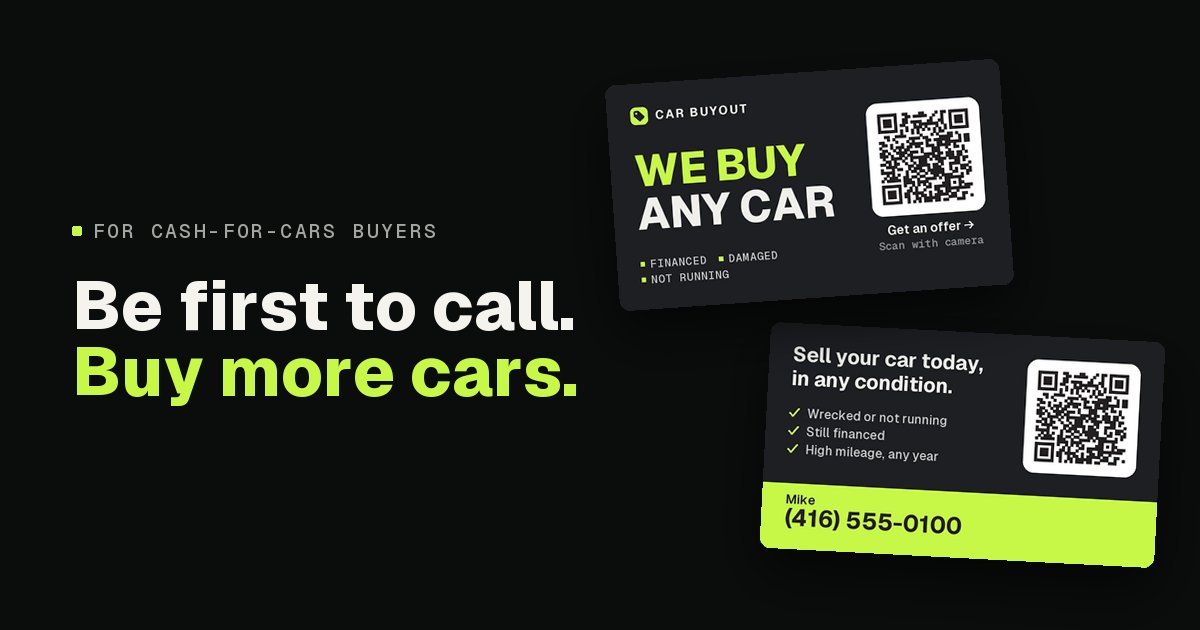
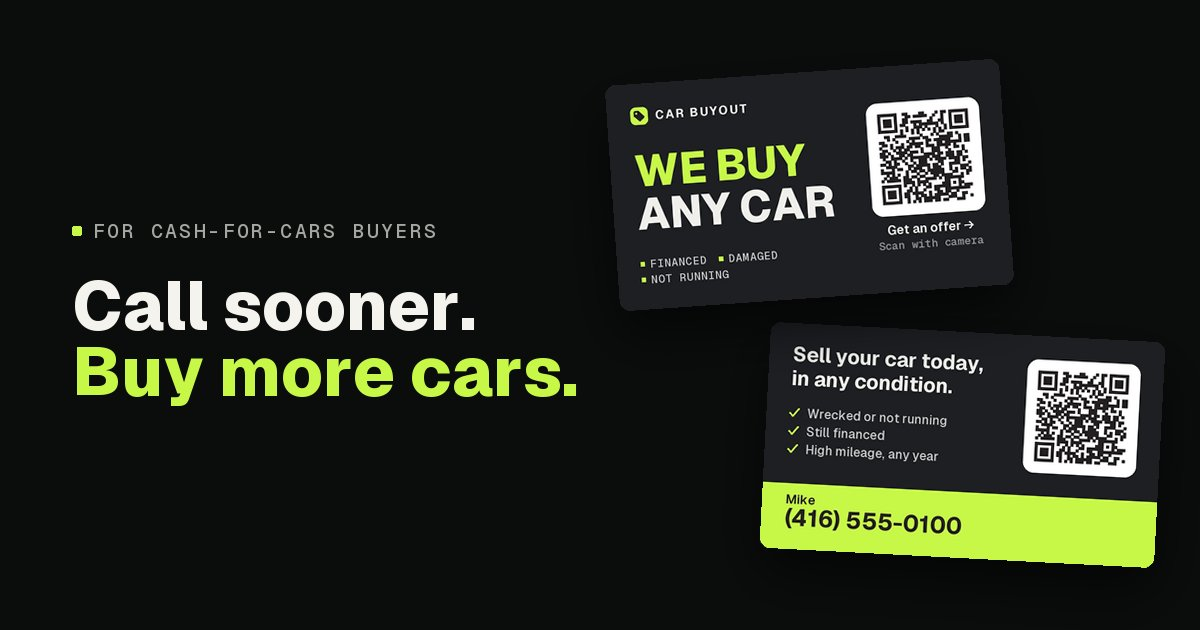
Update the demo

Changed region(s): [[0.0617, 0.4222, 0.4933, 0.5429]]

diff --git a/ru/index.html b/ru/index.html
@@ -5,14 +5,14 @@
   <meta name="viewport" content="width=device-width, initial-scale=1, viewport-fit=cover">
   <!-- Shared by link with one business at a time, never meant to be found. -->
   <meta name="robots" content="noindex">
-  <title>Выкуп авто · Звоните первым</title>
+  <title>Выкуп авто · Звоните быстрее</title>
   <meta name="description" content="Посмотрите, как это работает: продавец сканирует код или открывает ссылку и заполняет анкету, а вам приходит заявка с уведомлением на телефон.">
   <!-- The preview a messenger shows under a link. It reads the page as it is
        served, so a named link shows the headline, not the business's name. -->
   <meta property="og:type" content="website">
-  <meta property="og:title" content="Звоните первым. Выкупайте больше машин.">
+  <meta property="og:title" content="Звоните быстрее. Выкупайте больше машин.">
   <meta property="og:description" content="Посмотрите, как это работает: продавец сканирует код или открывает ссылку и заполняет анкету, а вам приходит заявка с уведомлением на телефон.">
-  <meta property="og:image" content="https://car-buyer-demo.github.io/assets/preview/ru.jpg?v=93c2c97ae4">
+  <meta property="og:image" content="https://car-buyer-demo.github.io/assets/preview/ru.jpg?v=3e0f3e5339">
   <meta property="og:image:width" content="1200">
   <meta property="og:image:height" content="630">
   <meta name="twitter:card" content="summary_large_image">
@@ -132,7 +132,7 @@
     <div class="hero">
       <div>
         <div class="kicker">Для автовыкупа</div>
-        <h1>Звоните первым. <em>Выкупайте больше машин.</em></h1>
+        <h1>Звоните быстрее. <em>Выкупайте больше машин.</em></h1>
         <p class="lead">Разместите QR-код на визитках, наклейках, щитах и у партнёров или добавьте ссылку в свою карточку на Яндекс Картах. Как только продавец оставит контакты, вам придёт уведомление, и вы позвоните, пока он ещё ищет покупателя.</p>
         <a class="button" href="#try">Попробовать ↓</a>
       </div>

diff --git a/ca-fr/index.html b/ca-fr/index.html
@@ -5,14 +5,14 @@
   <meta name="viewport" content="width=device-width, initial-scale=1, viewport-fit=cover">
   <!-- Shared by link with one business at a time, never meant to be found. -->
   <meta name="robots" content="noindex">
-  <title>Achat Auto Comptant · Appelez le premier</title>
+  <title>Achat Auto Comptant · Appelez plus vite</title>
   <meta name="description" content="Une démo qui fonctionne : le formulaire que remplit un vendeur après avoir scanné votre code ou touché votre lien, et l'app où la demande arrive par notification.">
   <!-- The preview a messenger shows under a link. It reads the page as it is
        served, so a named link shows the headline, not the business's name. -->
   <meta property="og:type" content="website">
-  <meta property="og:title" content="Appelez le premier. Achetez plus d'autos.">
+  <meta property="og:title" content="Appelez plus vite. Achetez plus d'autos.">
   <meta property="og:description" content="Une démo qui fonctionne : le formulaire que remplit un vendeur après avoir scanné votre code ou touché votre lien, et l'app où la demande arrive par notification.">
-  <meta property="og:image" content="https://car-buyer-demo.github.io/assets/preview/ca-fr.jpg?v=66493ed496">
+  <meta property="og:image" content="https://car-buyer-demo.github.io/assets/preview/ca-fr.jpg?v=13fef56f2d">
   <meta property="og:image:width" content="1200">
   <meta property="og:image:height" content="630">
   <meta name="twitter:card" content="summary_large_image">
@@ -132,7 +132,7 @@
     <div class="hero">
       <div>
         <div class="kicker">Pour les acheteurs de véhicules d'occasion</div>
-        <h1>Appelez le premier. <em>Achetez plus d'autos.</em></h1>
+        <h1>Appelez plus vite. <em>Achetez plus d'autos.</em></h1>
         <p class="lead">Mettez votre QR code sur des cartes, des autocollants, des affiches et chez des garages partenaires, ou ajoutez votre lien à votre fiche Google Maps. Dès qu'un vendeur laisse ses coordonnées, une notification arrive sur votre téléphone, et vous l'appelez pendant qu'il cherche encore un acheteur.</p>
         <a class="button" href="#try">Essayez vous-même ↓</a>
       </div>

diff --git a/de/index.html b/de/index.html
@@ -5,14 +5,14 @@
   <meta name="viewport" content="width=device-width, initial-scale=1, viewport-fit=cover">
   <!-- Shared by link with one business at a time, never meant to be found. -->
   <meta name="robots" content="noindex">
-  <title>Autoankauf Sofort · Zuerst anrufen</title>
+  <title>Autoankauf Sofort · Schneller anrufen</title>
   <meta name="description" content="Eine funktionierende Demo: das Formular, das ein Verkäufer nach dem Scannen Ihres Codes oder einem Tipp auf Ihren Link ausfüllt, und die App, in der die Anfrage per Push ankommt.">
   <!-- The preview a messenger shows under a link. It reads the page as it is
        served, so a named link shows the headline, not the business's name. -->
   <meta property="og:type" content="website">
-  <meta property="og:title" content="Rufen Sie zuerst an. Kaufen Sie mehr Autos.">
+  <meta property="og:title" content="Rufen Sie schneller an. Kaufen Sie mehr Autos.">
   <meta property="og:description" content="Eine funktionierende Demo: das Formular, das ein Verkäufer nach dem Scannen Ihres Codes oder einem Tipp auf Ihren Link ausfüllt, und die App, in der die Anfrage per Push ankommt.">
-  <meta property="og:image" content="https://car-buyer-demo.github.io/assets/preview/de.jpg?v=763ba8c24d">
+  <meta property="og:image" content="https://car-buyer-demo.github.io/assets/preview/de.jpg?v=443164e9ca">
   <meta property="og:image:width" content="1200">
   <meta property="og:image:height" content="630">
   <meta name="twitter:card" content="summary_large_image">
@@ -132,7 +132,7 @@
     <div class="hero">
       <div>
         <div class="kicker">Für Autoankäufer</div>
-        <h1>Rufen Sie zuerst an. <em>Kaufen Sie mehr Autos.</em></h1>
+        <h1>Rufen Sie schneller an. <em>Kaufen Sie mehr Autos.</em></h1>
         <p class="lead">Bringen Sie Ihren QR-Code auf Karten, Aufkleber, Schilder und zu Partnerwerkstätten, oder setzen Sie Ihren Link in Ihren Google-Maps-Eintrag. Sobald ein Verkäufer seine Kontaktdaten hinterlässt, kommt eine Push-Meldung auf Ihr Handy, und Sie rufen an, während er noch einen Käufer sucht.</p>
         <a class="button" href="#try">Selbst ausprobieren ↓</a>
       </div>

diff --git a/fr/index.html b/fr/index.html
@@ -5,14 +5,14 @@
   <meta name="viewport" content="width=device-width, initial-scale=1, viewport-fit=cover">
   <!-- Shared by link with one business at a time, never meant to be found. -->
   <meta name="robots" content="noindex">
-  <title>Cash Auto · Appelez le premier</title>
+  <title>Cash Auto · Appelez plus vite</title>
   <meta name="description" content="Une démo qui fonctionne : le formulaire que remplit un vendeur après avoir scanné votre code ou touché votre lien, et l'app où la demande arrive par notification.">
   <!-- The preview a messenger shows under a link. It reads the page as it is
        served, so a named link shows the headline, not the business's name. -->
   <meta property="og:type" content="website">
-  <meta property="og:title" content="Appelez le premier. Achetez plus de voitures.">
+  <meta property="og:title" content="Appelez plus vite. Achetez plus de voitures.">
   <meta property="og:description" content="Une démo qui fonctionne : le formulaire que remplit un vendeur après avoir scanné votre code ou touché votre lien, et l'app où la demande arrive par notification.">
-  <meta property="og:image" content="https://car-buyer-demo.github.io/assets/preview/fr.jpg?v=cbf4af8fb3">
+  <meta property="og:image" content="https://car-buyer-demo.github.io/assets/preview/fr.jpg?v=dca94bf3b7">
   <meta property="og:image:width" content="1200">
   <meta property="og:image:height" content="630">
   <meta name="twitter:card" content="summary_large_image">
@@ -132,7 +132,7 @@
     <div class="hero">
       <div>
         <div class="kicker">Pour les acheteurs de voitures d'occasion</div>
-        <h1>Appelez le premier. <em>Achetez plus de voitures.</em></h1>
+        <h1>Appelez plus vite. <em>Achetez plus de voitures.</em></h1>
         <p class="lead">Mettez votre QR code sur des cartes, des autocollants, des panneaux et chez des garages partenaires, ou ajoutez votre lien à votre fiche Google Maps. Dès qu'un vendeur laisse ses coordonnées, une notification arrive sur votre téléphone, et vous l'appelez pendant qu'il cherche encore un acheteur.</p>
         <a class="button" href="#try">Essayez vous-même ↓</a>
       </div>

diff --git a/pl/index.html b/pl/index.html
@@ -5,14 +5,14 @@
   <meta name="viewport" content="width=device-width, initial-scale=1, viewport-fit=cover">
   <!-- Shared by link with one business at a time, never meant to be found. -->
   <meta name="robots" content="noindex">
-  <title>Skup Aut Ekspres · Dzwoń pierwszy</title>
+  <title>Skup Aut Ekspres · Dzwoń szybciej</title>
   <meta name="description" content="Działające demo: formularz, który sprzedający wypełnia po zeskanowaniu Twojego kodu lub kliknięciu Twojego linku, i aplikacja, w której zgłoszenie przychodzi jako powiadomienie.">
   <!-- The preview a messenger shows under a link. It reads the page as it is
        served, so a named link shows the headline, not the business's name. -->
   <meta property="og:type" content="website">
-  <meta property="og:title" content="Dzwoń pierwszy. Skupuj więcej aut.">
+  <meta property="og:title" content="Dzwoń szybciej. Skupuj więcej aut.">
   <meta property="og:description" content="Działające demo: formularz, który sprzedający wypełnia po zeskanowaniu Twojego kodu lub kliknięciu Twojego linku, i aplikacja, w której zgłoszenie przychodzi jako powiadomienie.">
-  <meta property="og:image" content="https://car-buyer-demo.github.io/assets/preview/pl.jpg?v=08e51161b7">
+  <meta property="og:image" content="https://car-buyer-demo.github.io/assets/preview/pl.jpg?v=e2219d4366">
   <meta property="og:image:width" content="1200">
   <meta property="og:image:height" content="630">
   <meta name="twitter:card" content="summary_large_image">
@@ -132,7 +132,7 @@
     <div class="hero">
       <div>
         <div class="kicker">Dla skupów samochodów</div>
-        <h1>Dzwoń pierwszy. <em>Skupuj więcej aut.</em></h1>
+        <h1>Dzwoń szybciej. <em>Skupuj więcej aut.</em></h1>
         <p class="lead">Umieść swój kod QR na wizytówkach, naklejkach, tablicach i u warsztatów partnerskich albo dodaj link do profilu firmy w Mapach Google. Gdy tylko sprzedający zostawi kontakt, dostajesz powiadomienie na telefon i dzwonisz, póki on wciąż szuka kupca.</p>
         <a class="button" href="#try">Wypróbuj sam ↓</a>
       </div>

diff --git a/us-es/index.html b/us-es/index.html
@@ -5,14 +5,14 @@
   <meta name="viewport" content="width=device-width, initial-scale=1, viewport-fit=cover">
   <!-- Shared by link with one business at a time, never meant to be found. -->
   <meta name="robots" content="noindex">
-  <title>Autos al Contado · Llame primero</title>
+  <title>Autos al Contado · Llame antes</title>
   <meta name="description" content="Una demo que funciona: el formulario que llena un vendedor al escanear su código o tocar su enlace, y la app donde llega el prospecto con una notificación.">
   <!-- The preview a messenger shows under a link. It reads the page as it is
        served, so a named link shows the headline, not the business's name. -->
   <meta property="og:type" content="website">
-  <meta property="og:title" content="Llame primero. Compre más autos.">
+  <meta property="og:title" content="Llame antes. Compre más autos.">
   <meta property="og:description" content="Una demo que funciona: el formulario que llena un vendedor al escanear su código o tocar su enlace, y la app donde llega el prospecto con una notificación.">
-  <meta property="og:image" content="https://car-buyer-demo.github.io/assets/preview/us-es.jpg?v=51e01cba76">
+  <meta property="og:image" content="https://car-buyer-demo.github.io/assets/preview/us-es.jpg?v=d303b06743">
   <meta property="og:image:width" content="1200">
   <meta property="og:image:height" content="630">
   <meta name="twitter:card" content="summary_large_image">
@@ -132,7 +132,7 @@
     <div class="hero">
       <div>
         <div class="kicker">Para compradores de autos usados</div>
-        <h1>Llame primero. <em>Compre más autos.</em></h1>
+        <h1>Llame antes. <em>Compre más autos.</em></h1>
         <p class="lead">Ponga su código QR en tarjetas, calcomanías, letreros y en talleres aliados, o agregue su enlace a su perfil de Google Maps. En cuanto un vendedor deja sus datos, le llega una notificación al teléfono y usted llama mientras él todavía busca comprador.</p>
         <a class="button" href="#try">Pruébelo usted mismo ↓</a>
       </div>

diff --git a/es/index.html b/es/index.html
@@ -5,14 +5,14 @@
   <meta name="viewport" content="width=device-width, initial-scale=1, viewport-fit=cover">
   <!-- Shared by link with one business at a time, never meant to be found. -->
   <meta name="robots" content="noindex">
-  <title>Coches al Contado · Llama el primero</title>
+  <title>Coches al Contado · Llama antes</title>
   <meta name="description" content="Una demo que funciona: el formulario que rellena un vendedor al escanear tu código o tocar tu enlace, y la app donde llega la solicitud con una notificación.">
   <!-- The preview a messenger shows under a link. It reads the page as it is
        served, so a named link shows the headline, not the business's name. -->
   <meta property="og:type" content="website">
-  <meta property="og:title" content="Llama el primero. Compra más coches.">
+  <meta property="og:title" content="Llama antes. Compra más coches.">
   <meta property="og:description" content="Una demo que funciona: el formulario que rellena un vendedor al escanear tu código o tocar tu enlace, y la app donde llega la solicitud con una notificación.">
-  <meta property="og:image" content="https://car-buyer-demo.github.io/assets/preview/es.jpg?v=b8c4c929c6">
+  <meta property="og:image" content="https://car-buyer-demo.github.io/assets/preview/es.jpg?v=3349cb5d0d">
   <meta property="og:image:width" content="1200">
   <meta property="og:image:height" content="630">
   <meta name="twitter:card" content="summary_large_image">
@@ -132,7 +132,7 @@
     <div class="hero">
       <div>
         <div class="kicker">Para compradores de coches usados</div>
-        <h1>Llama el primero. <em>Compra más coches.</em></h1>
+        <h1>Llama antes. <em>Compra más coches.</em></h1>
         <p class="lead">Pon tu código QR en tarjetas, pegatinas, carteles y en talleres colaboradores, o añade tu enlace a tu ficha de Google Maps. En cuanto un vendedor deja sus datos, te llega una notificación al móvil y llamas mientras aún busca comprador.</p>
         <a class="button" href="#try">Pruébalo tú mismo ↓</a>
       </div>

diff --git a/br/index.html b/br/index.html
@@ -5,14 +5,14 @@
   <meta name="viewport" content="width=device-width, initial-scale=1, viewport-fit=cover">
   <!-- Shared by link with one business at a time, never meant to be found. -->
   <meta name="robots" content="noindex">
-  <title>Venda Já · Ligue primeiro</title>
+  <title>Venda Já · Ligue antes</title>
   <meta name="description" content="Uma demo que funciona: o formulário que o vendedor preenche depois de escanear seu código ou tocar no seu link, e o app onde o pedido chega com uma notificação.">
   <!-- The preview a messenger shows under a link. It reads the page as it is
        served, so a named link shows the headline, not the business's name. -->
   <meta property="og:type" content="website">
-  <meta property="og:title" content="Ligue primeiro. Compre mais carros.">
+  <meta property="og:title" content="Ligue antes. Compre mais carros.">
   <meta property="og:description" content="Uma demo que funciona: o formulário que o vendedor preenche depois de escanear seu código ou tocar no seu link, e o app onde o pedido chega com uma notificação.">
-  <meta property="og:image" content="https://car-buyer-demo.github.io/assets/preview/br.jpg?v=5217b05d07">
+  <meta property="og:image" content="https://car-buyer-demo.github.io/assets/preview/br.jpg?v=d43861c863">
   <meta property="og:image:width" content="1200">
   <meta property="og:image:height" content="630">
   <meta name="twitter:card" content="summary_large_image">
@@ -132,7 +132,7 @@
     <div class="hero">
       <div>
         <div class="kicker">Para quem compra carros usados</div>
-        <h1>Ligue primeiro. <em>Compre mais carros.</em></h1>
+        <h1>Ligue antes. <em>Compre mais carros.</em></h1>
         <p class="lead">Coloque seu QR code em cartões, adesivos, placas e em oficinas parceiras, ou adicione seu link ao seu perfil no Google Maps. Assim que um vendedor deixa o contato, chega uma notificação no seu celular, e você liga enquanto ele ainda procura comprador.</p>
         <a class="button" href="#try">Experimente ↓</a>
       </div>

diff --git a/gb/index.html b/gb/index.html
@@ -5,14 +5,14 @@
   <meta name="viewport" content="width=device-width, initial-scale=1, viewport-fit=cover">
   <!-- Shared by link with one business at a time, never meant to be found. -->
   <meta name="robots" content="noindex">
-  <title>Car Buyout · Be first to call</title>
+  <title>Car Buyout · Call sooner</title>
   <meta name="description" content="A working demo: the form a seller fills in after scanning your code or tapping your link, and the app where the lead arrives with a push.">
   <!-- The preview a messenger shows under a link. It reads the page as it is
        served, so a named link shows the headline, not the business's name. -->
   <meta property="og:type" content="website">
-  <meta property="og:title" content="Be first to call. Buy more cars.">
+  <meta property="og:title" content="Call sooner. Buy more cars.">
   <meta property="og:description" content="A working demo: the form a seller fills in after scanning your code or tapping your link, and the app where the lead arrives with a push.">
-  <meta property="og:image" content="https://car-buyer-demo.github.io/assets/preview/gb.jpg?v=818af94266">
+  <meta property="og:image" content="https://car-buyer-demo.github.io/assets/preview/gb.jpg?v=d59675aba7">
   <meta property="og:image:width" content="1200">
   <meta property="og:image:height" content="630">
   <meta name="twitter:card" content="summary_large_image">
@@ -132,7 +132,7 @@
     <div class="hero">
       <div>
         <div class="kicker">For car buyers and traders</div>
-        <h1>Be first to call. <em>Buy more cars.</em></h1>
+        <h1>Call sooner. <em>Buy more cars.</em></h1>
         <p class="lead">Put your QR code on cards, stickers, signs and at partner garages, or add your link to your Google Maps listing. The moment a seller leaves their contacts, a push hits your phone, so you call while they're still looking for a buyer.</p>
         <a class="button" href="#try">Try it yourself ↓</a>
       </div>

diff --git a/ca/index.html b/ca/index.html
@@ -5,14 +5,14 @@
   <meta name="viewport" content="width=device-width, initial-scale=1, viewport-fit=cover">
   <!-- Shared by link with one business at a time, never meant to be found. -->
   <meta name="robots" content="noindex">
-  <title>Car Buyout · Be first to call</title>
+  <title>Car Buyout · Call sooner</title>
   <meta name="description" content="A working demo: the form a seller fills in after scanning your code or tapping your link, and the app where the lead arrives with a push.">
   <!-- The preview a messenger shows under a link. It reads the page as it is
        served, so a named link shows the headline, not the business's name. -->
   <meta property="og:type" content="website">
-  <meta property="og:title" content="Be first to call. Buy more cars.">
+  <meta property="og:title" content="Call sooner. Buy more cars.">
   <meta property="og:description" content="A working demo: the form a seller fills in after scanning your code or tapping your link, and the app where the lead arrives with a push.">
-  <meta property="og:image" content="https://car-buyer-demo.github.io/assets/preview/ca.jpg?v=94f2a81baa">
+  <meta property="og:image" content="https://car-buyer-demo.github.io/assets/preview/ca.jpg?v=65a2b27333">
   <meta property="og:image:width" content="1200">
   <meta property="og:image:height" content="630">
   <meta name="twitter:card" content="summary_large_image">
@@ -132,7 +132,7 @@
     <div class="hero">
       <div>
         <div class="kicker">For cash-for-cars buyers</div>
-        <h1>Be first to call. <em>Buy more cars.</em></h1>
+        <h1>Call sooner. <em>Buy more cars.</em></h1>
         <p class="lead">Put your QR code on cards, stickers, signs and at partner shops, or add your link to your Google Maps listing. The moment a seller leaves their contacts, a push hits your phone, so you call while they're still looking for a buyer.</p>
         <a class="button" href="#try">Try it yourself ↓</a>
       </div>

diff --git a/index.html b/index.html
@@ -5,14 +5,14 @@
   <meta name="viewport" content="width=device-width, initial-scale=1, viewport-fit=cover">
   <!-- Shared by link with one business at a time, never meant to be found. -->
   <meta name="robots" content="noindex">
-  <title>Car Buyout · Be first to call</title>
+  <title>Car Buyout · Call sooner</title>
   <meta name="description" content="A working demo: the form a seller fills in after scanning your code or tapping your link, and the app where the lead arrives with a push.">
   <!-- The preview a messenger shows under a link. It reads the page as it is
        served, so a named link shows the headline, not the business's name. -->
   <meta property="og:type" content="website">
-  <meta property="og:title" content="Be first to call. Buy more cars.">
+  <meta property="og:title" content="Call sooner. Buy more cars.">
   <meta property="og:description" content="A working demo: the form a seller fills in after scanning your code or tapping your link, and the app where the lead arrives with a push.">
-  <meta property="og:image" content="https://car-buyer-demo.github.io/assets/preview/us.jpg?v=6a6df63766">
+  <meta property="og:image" content="https://car-buyer-demo.github.io/assets/preview/us.jpg?v=7535df7c62">
   <meta property="og:image:width" content="1200">
   <meta property="og:image:height" content="630">
   <meta name="twitter:card" content="summary_large_image">
@@ -132,7 +132,7 @@
     <div class="hero">
       <div>
         <div class="kicker">For cash-for-cars buyers</div>
-        <h1>Be first to call. <em>Buy more cars.</em></h1>
+        <h1>Call sooner. <em>Buy more cars.</em></h1>
         <p class="lead">Put your QR code on cards, stickers, signs and at partner shops, or add your link to your Google Maps listing. The moment a seller leaves their contacts, a push hits your phone, so you call while they're still looking for a buyer.</p>
         <a class="button" href="#try">Try it yourself ↓</a>
       </div>
